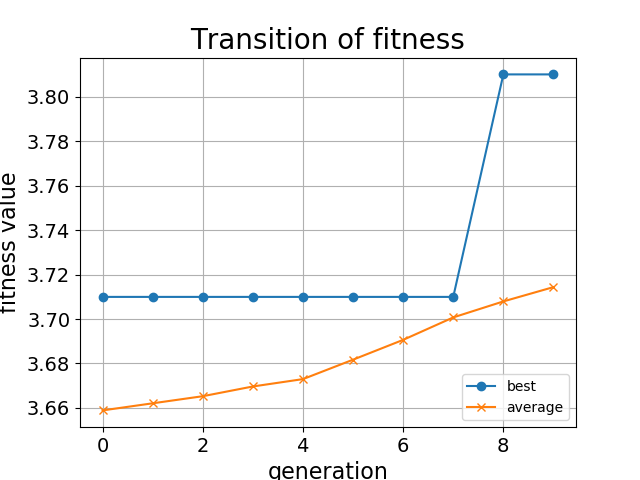
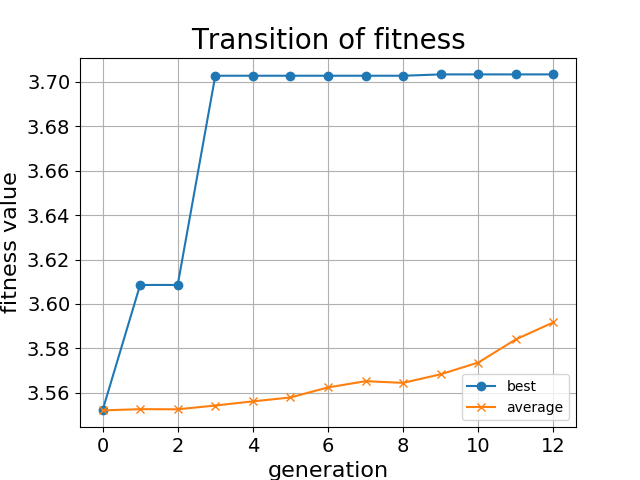
not so many change

diff --git a/public/constants.py b/public/constants.py
@@ -19,7 +19,7 @@ VESSEL_LIFE_TIME         = 15#year
 OPERATION_DURATION_YEARS = VESSEL_LIFE_TIME
 DEFAULT_PREDICT_YEARS    = OPERATION_DURATION_YEARS
 
-DEFAULT_PREDICT_PATTERN_NUMBER = 100
+DEFAULT_PREDICT_PATTERN_NUMBER = 4
 DEFAULT_GENERATION = 20
 DEFAULT_NUM_OF_INDIVIDUAL = 200
 DEFAULT_ALPHA = 0.05
